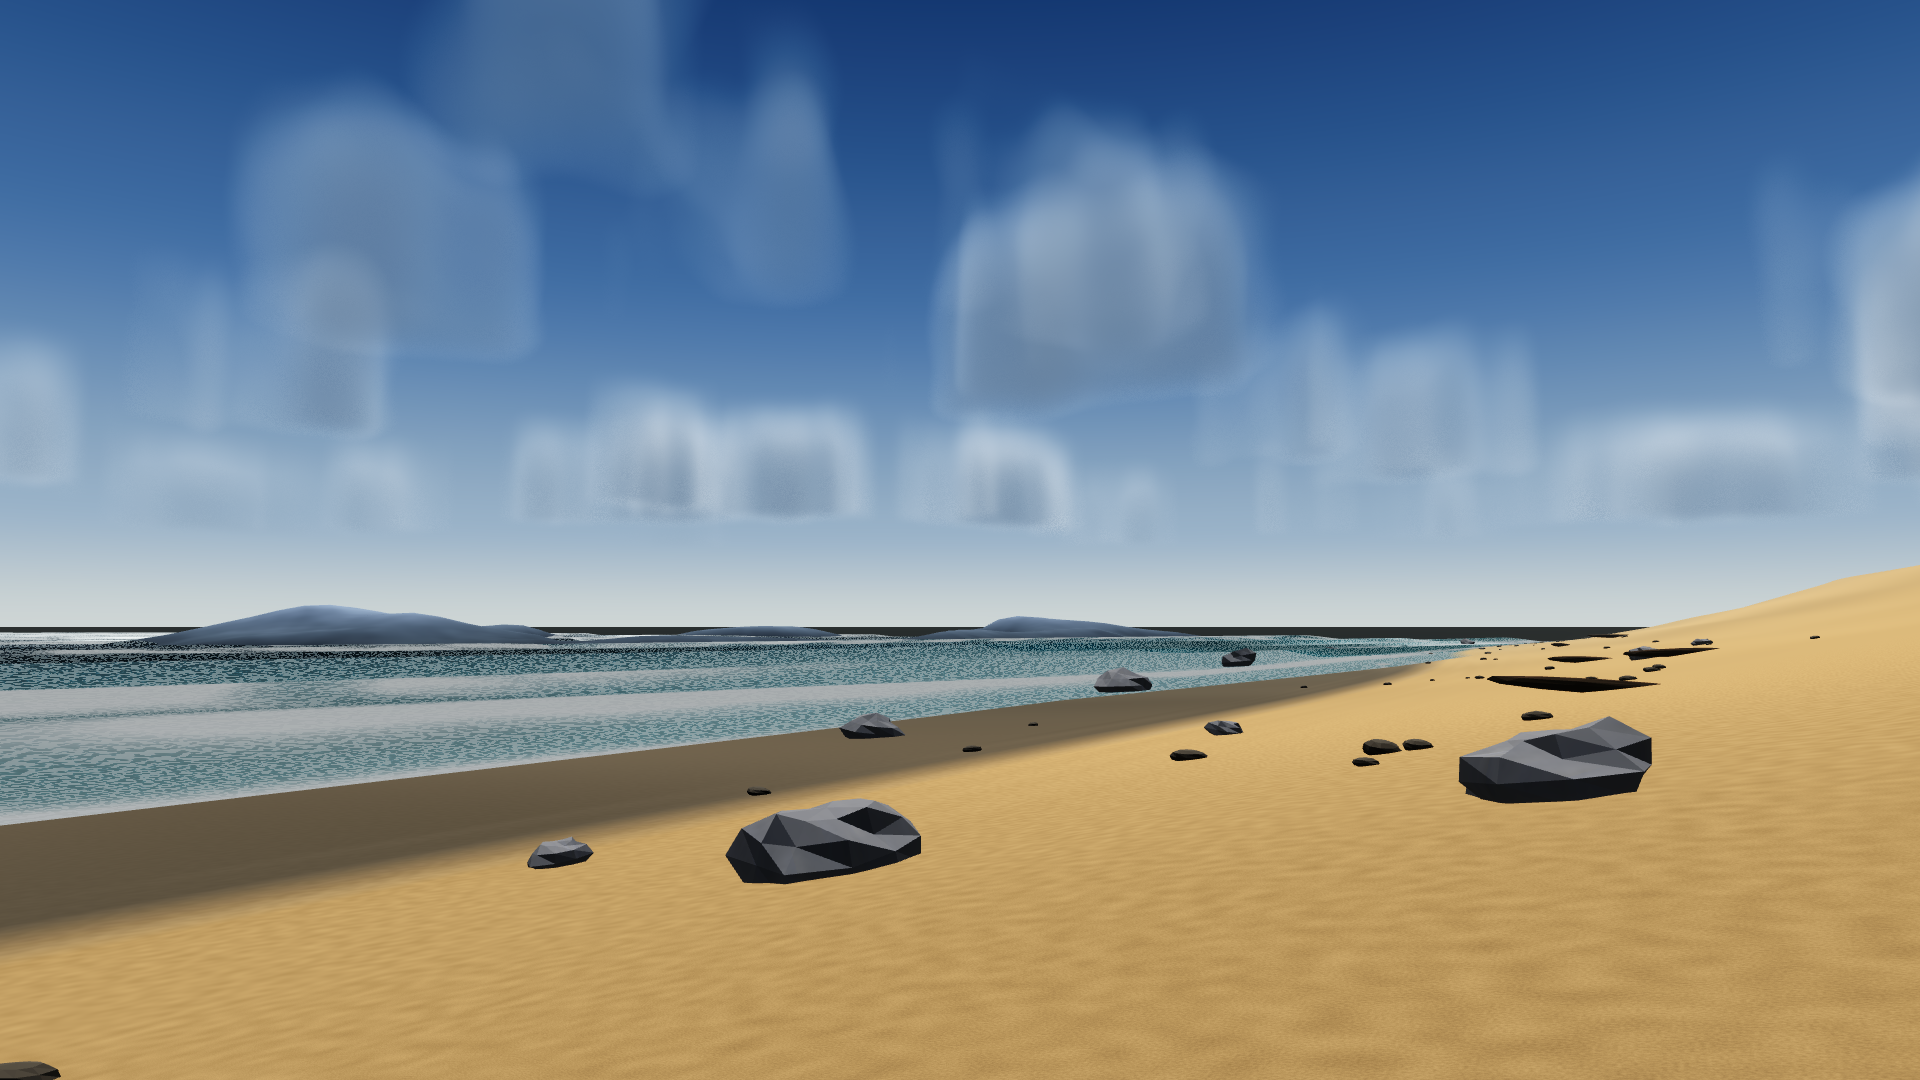
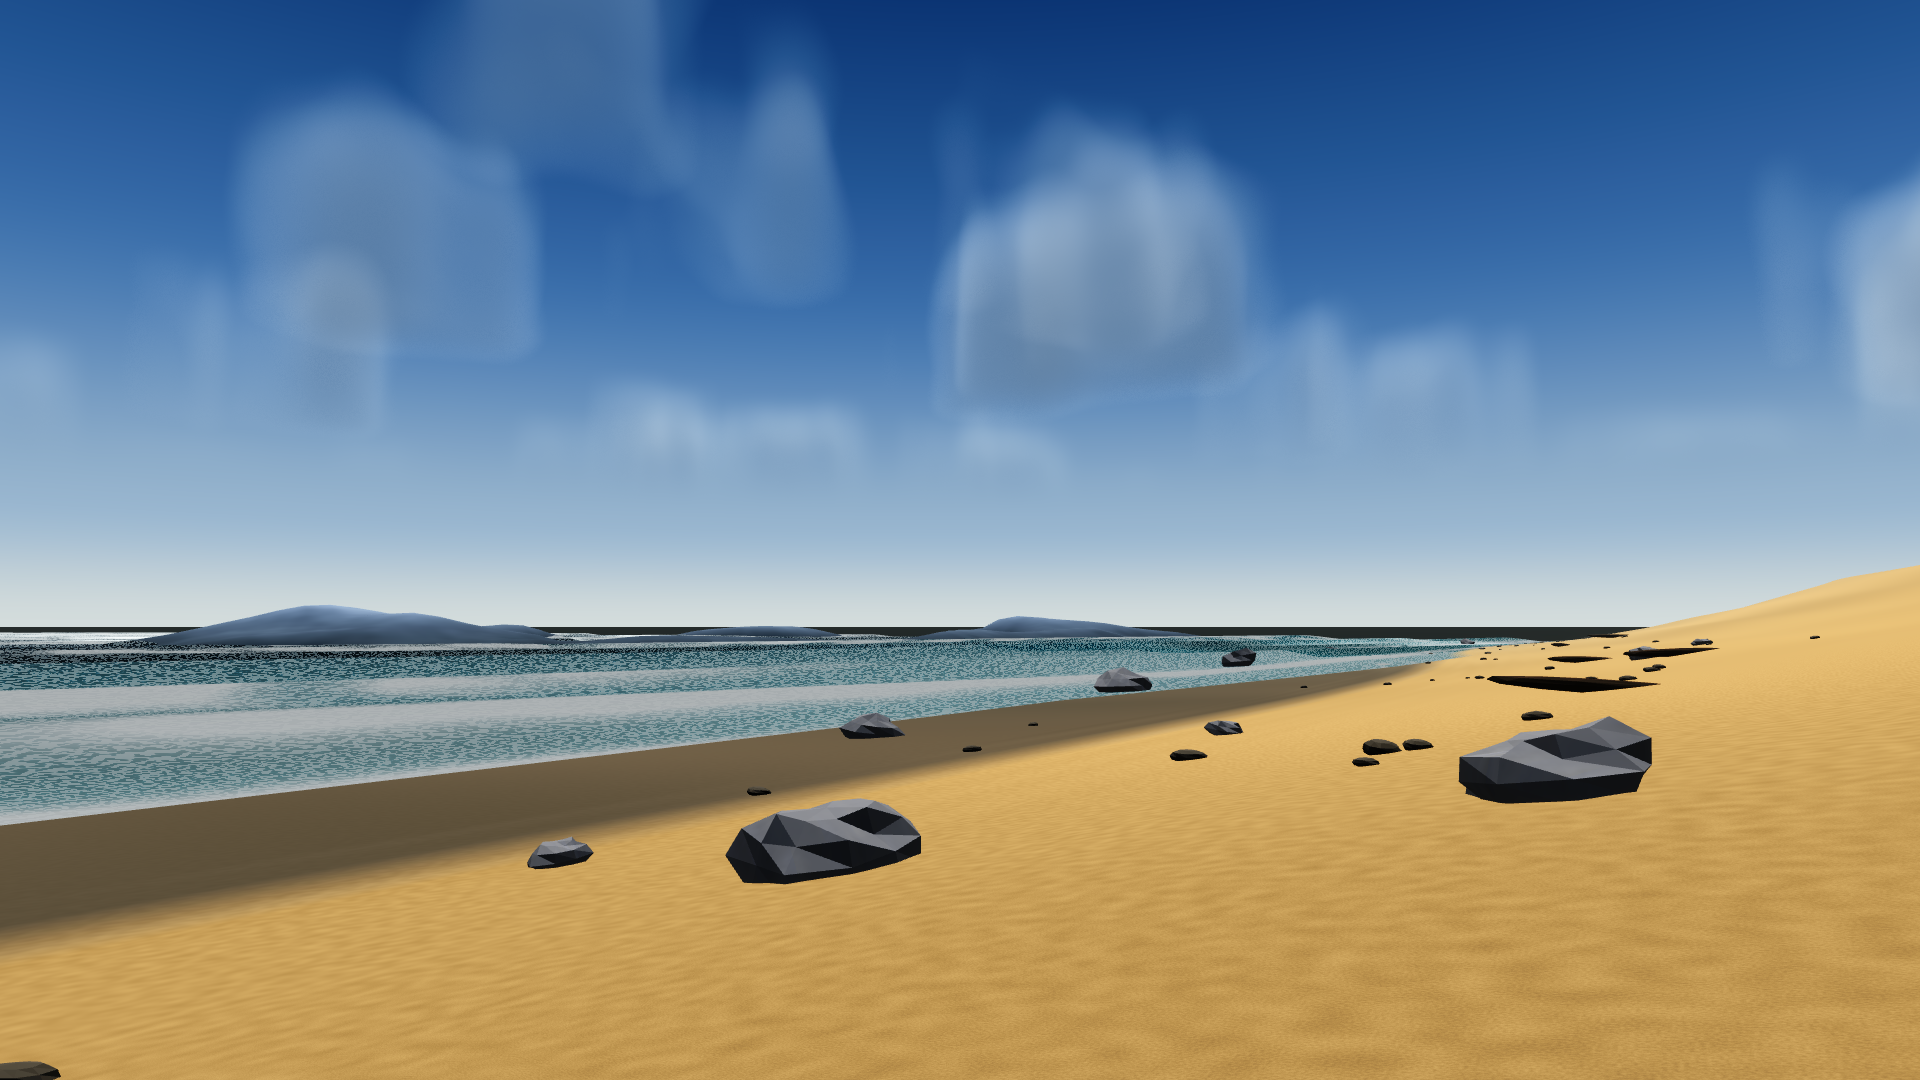
fix(R112): Ocean 对比/饱和定档(18/-5 -> 26/+2, 饱和107->121.4 参考124.3) + 低仰角云'柱状条纹'用仰角淡出(0.015~0.085 -> 0.10~0.26)修掉. 云仍是大圆角方块轮廓(基频倍频主导, 调大尺度只是变很多小方块) => 真解需3维噪声重写; Islet 的 Sky_Tropical 是另一套实现云更好看, 换不换需单独评估

diff --git a/Assets/Editor/R97Setup.cs b/Assets/Editor/R97Setup.cs
@@ -67,6 +67,17 @@ namespace WaterProject.EditorTools
         // R107：查"巨大白色光斑"——先把 Bloom 关掉，看它是不是放大器
 
         // R111：温和 Bloom —— 只让"太阳"这类真正超过 1.3 的高光发光，不把整幅画面糊掉
+
+        // R112：Ocean 的"平"—— 对比/饱和各提一档（参考 51.2 / 124.3，我们是 40.8 / 107）
+        [MenuItem("Tools/R112/90 Ocean 对比26 饱和+2")]
+        public static void OceanGradeA() => Grade(-0.30f, 26f, 2f, "R112-90");
+
+        [MenuItem("Tools/R112/91 Ocean 对比32 饱和+8")]
+        public static void OceanGradeB() => Grade(-0.35f, 32f, 8f, "R112-91");
+
+        [MenuItem("Tools/R112/92 Ocean 对比20 饱和-2(原档)")]
+        public static void OceanGradeBack() => Grade(-0.30f, 18f, -5f, "R112-92");
+
         [MenuItem("Tools/R111/90 Bloom 温和档(阈值1.30/强度0.30)")]
         public static void BloomGentle()
         {

diff --git a/Docs/学习路径与知识库/检测报告/R56_场景画质与采集口径.md b/Docs/学习路径与知识库/检测报告/R56_场景画质与采集口径.md
@@ -861,3 +861,30 @@ Islet：129.9 / 50.2 / **123.5** / 近黑 2.90 / 爆白 0.44
 我看上一张截图时以为"机位被改动了"，于是跑了一次 `Style/207` 恢复机位。
 实际上**机位一直是 207**，是我拿了更早的一张不同构图的截图在做对比。教训：
 **比对前先确认两张图是同一个机位/同一个采集口径**，否则会"修一个不存在的问题"。
+
+---
+
+## R112：Ocean 的对比/饱和定档 + 低仰角云的"柱状条纹"
+
+### ① 画面偏"平"
+Ocean 对比 40.8 / 饱和 107，参考 51.2 / 124.3。Volume 从 **对比 18 / 饱和 −5** 提到 **26 / +2**：
+
+| | 亮度 | 对比 | 饱和 |
+| --- | --- | --- | --- |
+| 之前 | 136.5 | 40.8 | 107.0 |
+| **现在** | 135.9 | 43.6 | **121.4** |
+
+饱和距参考只差 2.4%。
+
+### ② 低仰角的"竖条纹"
+在这个"沿海滩平视"的机位下，8°~25° 这段天空里云被拉成**一排竖条纹**。原因是**光学薄层的柱状积分**：
+视线在低仰角下穿过长长的云层柱，结果主要由"这一列上有多少云"决定 ⇒ 沿方位角变化、沿高度几乎不变 ⇒ 竖条。
+
+**修法**：把云的仰角淡出范围从 `0.015~0.085` 放大到 **`0.10~0.26`**（真实里这一段本来就被大气雾吃掉）。
+条纹消失，天空变成"上方有云、近地平线干净"。
+
+### ③ 没解决的（实现上限）
+云仍是**大圆角方块**的轮廓（`_CloudScale 0.00042` ⇒ 一格约 2.4 km，一朵云就是一格）。
+调大 `_CloudScale`（0.00075/0.0011）只会变成"很多小方块"，因为**基频倍频永远主导形状**。
+真正的解法是 3 维噪声（高度方向也变化），属重写级别。
+Islet 用的 `Sky_Tropical` 是另一套实现（`Fbm3` + 域扭曲 + 距离 LOD），云明显更好看 —— 要不要把 Ocean 也换成那套，需要单独一轮评估。
